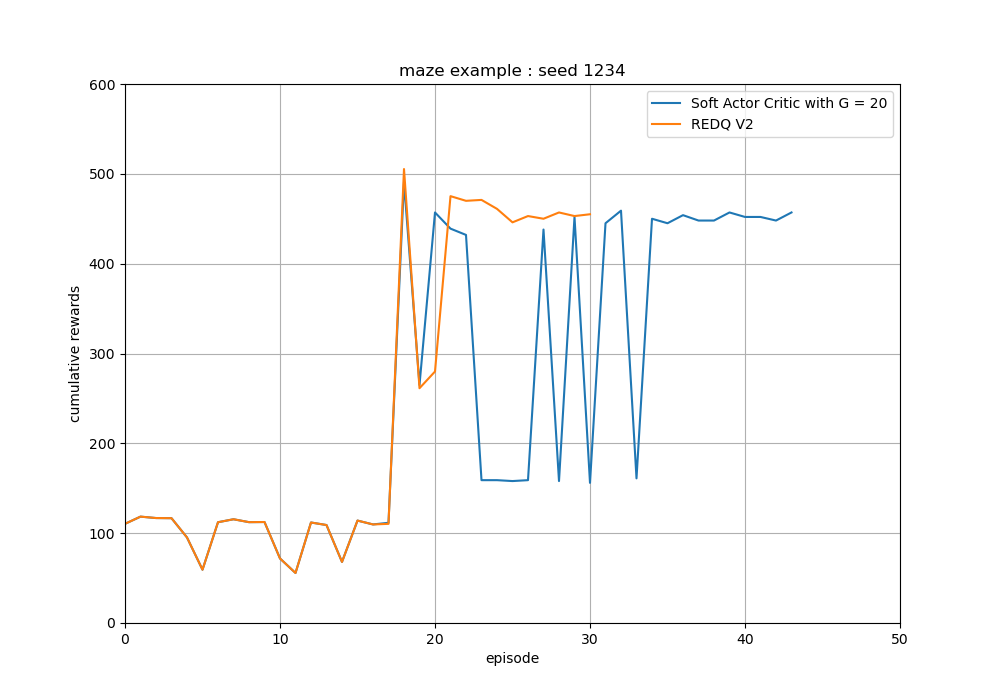
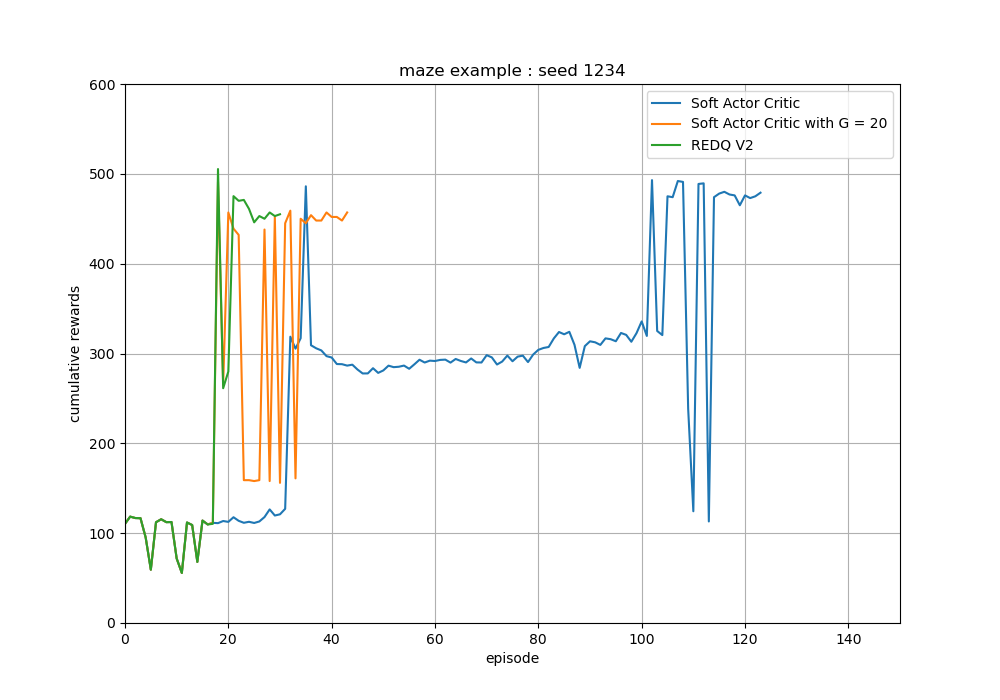
modify the plots

diff --git a/maze_example/plot_results.py b/maze_example/plot_results.py
@@ -14,7 +14,7 @@ def load_record(record_model_type):
 
 def main_plot():
 
-    # sac_data = load_record('sac')
+    sac_data = load_record('sac')
 
     sac_g20_data = load_record('sac_g20')
 
@@ -26,7 +26,7 @@ def main_plot():
     
     ax1 = fig.add_subplot(1, 1, 1)
     
-    # ax1.plot(sac_data[:, 2], label="Soft Actor Critic")
+    ax1.plot(sac_data[:, 2], label="Soft Actor Critic")
     
     ax1.plot(sac_g20_data[:, 2], label="Soft Actor Critic with G = 20")
     
@@ -40,7 +40,7 @@ def main_plot():
 
     ax1.set_title("maze example : seed 1234")
     
-    ax1.set_xlim([0, 50])
+    ax1.set_xlim([0, 150])
     
     ax1.set_ylim([0, 600])
 
